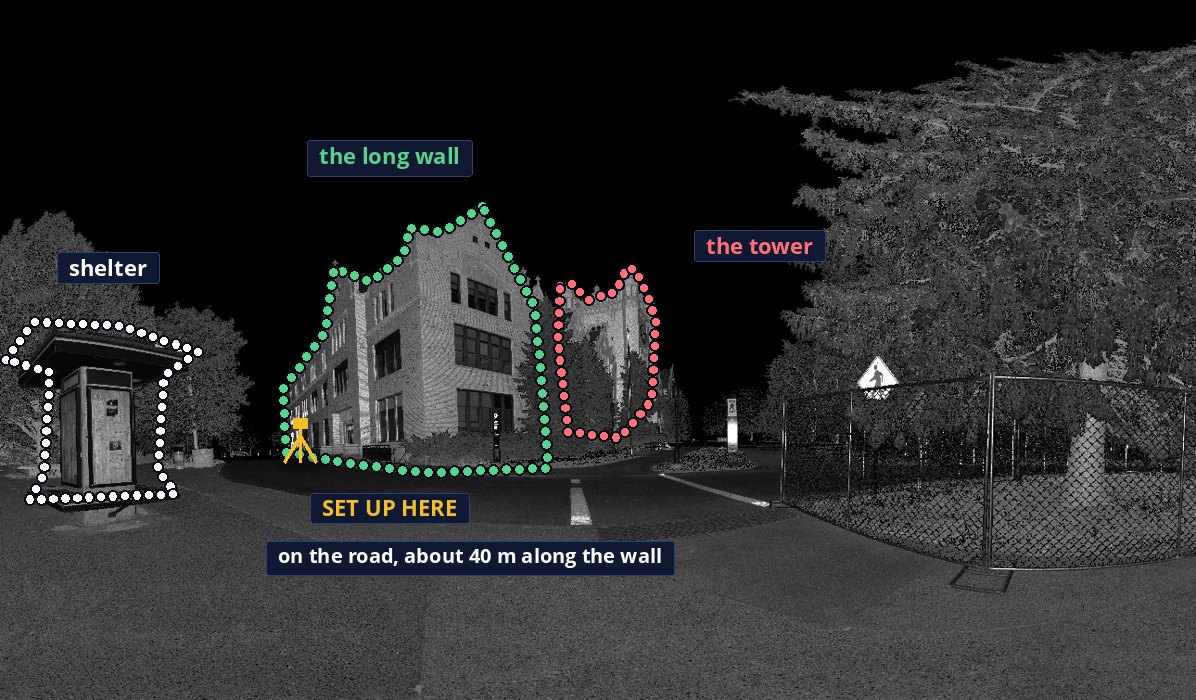
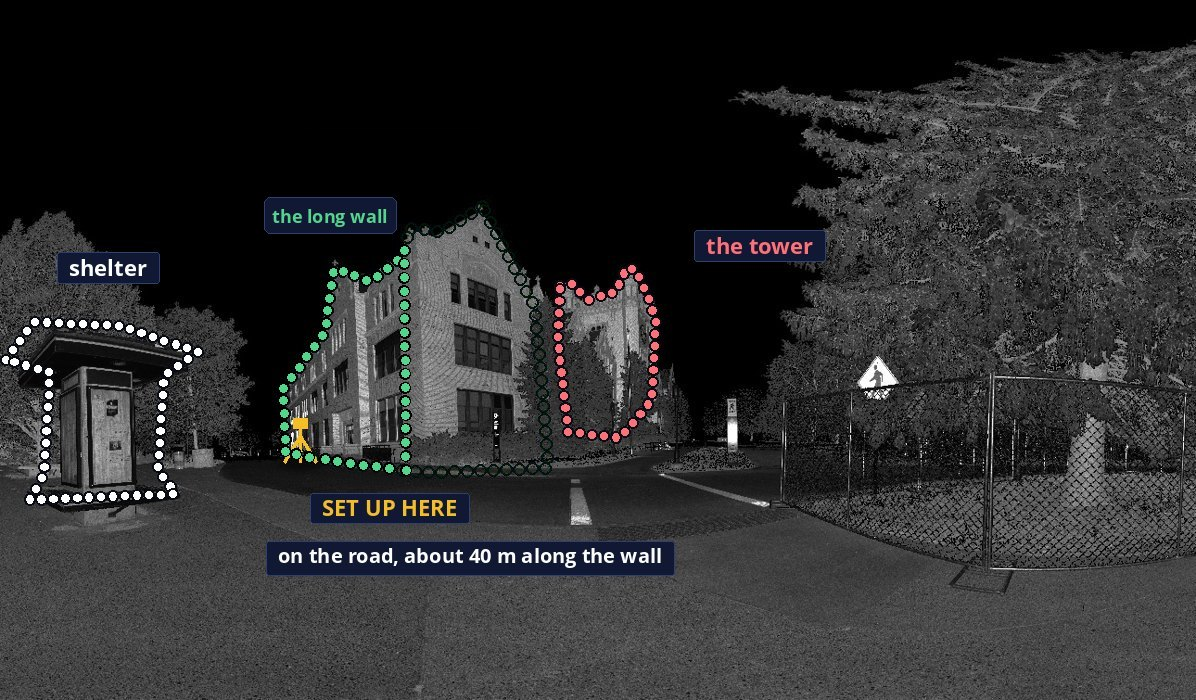
Stop the long-wall outline at the corner, where the gable faces the other way.
The dotted line was wrapping that end wall. The facade picture is the 44.4 m plane again.

Changed region(s): [[0.2166, 0.18, 0.4331, 0.66], [0.3403, 0.39, 0.464, 0.69], [0.2166, 0.63, 0.2784, 0.66]]

diff --git a/index.html b/index.html
@@ -10,12 +10,12 @@
 <meta property="og:description" content="You say what the scan has to answer. Wall plumb, standing water, the site in one map, and the height of the building.">
 <meta property="og:type" content="website">
 <meta property="og:url" content="https://ai-scan.northidaholabs.com/">
-<meta property="og:image" content="https://ai-scan.northidaholabs.com/img/wall-facade.png">
-<meta property="og:image:alt" content="Heat map of the 61.6 m facade. The long wall is colored against its plane. The gabled bay is grey, about 0.9 m proud of the plane.">
+<meta property="og:image" content="https://ai-scan.northidaholabs.com/img/wall-w2.png">
+<meta property="og:image:alt" content="Heat map of the 44.4 m facade. Red stands proud of the plane. Blue sits back.">
 <meta name="twitter:card" content="summary_large_image">
 <meta name="twitter:title" content="The scan answers | North Idaho Labs">
 <meta name="twitter:description" content="You say what the scan has to answer. Wall plumb, standing water, the site in one map, and the height of the building.">
-<meta name="twitter:image" content="https://ai-scan.northidaholabs.com/img/wall-facade.png">
+<meta name="twitter:image" content="https://ai-scan.northidaholabs.com/img/wall-w2.png">
 <link rel="preconnect" href="https://fonts.googleapis.com">
 <link rel="preconnect" href="https://fonts.gstatic.com" crossorigin>
 <link href="https://fonts.googleapis.com/css2?family=Instrument+Serif:ital@0;1&family=Manrope:wght@400;500;600&family=IBM+Plex+Mono:wght@400;500&display=swap" rel="stylesheet">
@@ -42,12 +42,12 @@
 <section class="lead" id="work">
   <article>
     <figure>
-      <img src="img/wall-facade.png" alt="Heat map of the 61.6 m facade. The long wall is colored against its plane. The gabled bay is grey, about 0.9 m proud of the plane.">
-      <figcaption>The 61.6 m face. The gabled bay is grey.</figcaption>
+      <img src="img/wall-w2.png" alt="Heat map of the 44.4 m facade. Red stands proud of the plane. Blue sits back.">
+      <figcaption>The long wall. Red stands proud. Blue sits back.</figcaption>
     </figure>
     <h2>Wall plumb and flatness</h2>
     <blockquote class="prompt">Is the long facade plumb, within a quarter inch in ten feet?</blockquote>
-    <p class="metric">7.1 mm over 13.8 m</p>
+    <p class="metric">4.1 mm over 14.6 m</p>
     <a href="visit.html">Read the visit</a>
   </article>
   <article>

diff --git a/walls.html b/walls.html
@@ -21,19 +21,19 @@
 <main>
 <h1>Wall plumb and flatness</h1>
 <blockquote class="prompt">Is the long facade plumb, within a quarter inch in ten feet?</blockquote>
-<p class="lede">The administration building at the University of Idaho. The outlined face runs 61.6 m. The gabled bay stands about 0.9 m proud of its plane, so the elevation draws that bay grey.</p>
+<p class="lede">The administration building at the University of Idaho. Red stands proud of the wall. Blue sits back. Grey is the windows and the courses that sit off it.</p>
 
 <figure>
-  <img src="img/wall-facade.png" alt="Heat map of the 61.6 m facade. The long wall is colored against its plane. The gabled bay is grey, about 0.9 m proud of the plane.">
-  <figcaption>The 61.6 m face. The gabled bay is grey, about 0.9 m proud of the plane.</figcaption>
+  <img src="img/wall-w2.png" alt="Heat map of the 44.4 m facade. Red stands proud of the plane. Blue sits back.">
+  <figcaption>The long wall, 44.4 m.</figcaption>
 </figure>
 <div class="facts">
-  <div><b>7.1 mm</b><span>out of plumb over 13.8 m</span></div>
-  <div><b>9.4 mm</b><span>flatness RMS against its plane</span></div>
-  <div><b>0.9 m</b><span>the gabled bay stands proud of the plane</span></div>
-  <div><b>86%</b><span>of the face covered by the scan</span></div>
+  <div><b>4.1 mm</b><span>out of plumb over 14.6 m</span></div>
+  <div><b>7.6 mm</b><span>flatness RMS against its plane</span></div>
+  <div><b>55%</b><span>of 3 m straight-line windows within 6 mm</span></div>
+  <div><b>85%</b><span>of the face covered by the scan</span></div>
 </div>
-<p>The longest planes the detector kept. w2 is the 44.4 m stretch of the face above. The bay is the gap between that stretch and w8.</p>
+<p>The longest walls on the same building:</p>
 <div class="scroll">
 <table>
 <tr><th>Wall</th><th>Length m</th><th>Top above ground m</th><th>Lean over height mm</th><th>Flatness RMS mm</th><th>95% within mm</th><th>3 m windows within 6 mm</th><th>Openings and reliefs</th></tr>

diff --git a/visit.html b/visit.html
@@ -36,15 +36,15 @@
 <p class="lede">Nothing stands in front of the wall.</p>
 <figure>
   <img src="img/station-4.jpg" alt="Station 4's view of the long wall, marked seen. Nothing stands in front of it.">
-  <figcaption>From the road. The gabled bay is at the right.</figcaption>
+  <figcaption>From the road. The outline stops where the wall turns.</figcaption>
 </figure>
 
 <h2>The long facade</h2>
 <blockquote class="prompt">Is the long facade plumb, within a quarter inch in ten feet?</blockquote>
-<p>7.1 mm out of plumb (9/32 in) over 13.8 m. The top leans toward the side it was scanned from. The tolerance gives no allowance for 13.8 m of height. Flat to 9.4 mm RMS. The gabled bay stands about 0.9 m proud of that plane. Stations 1 through 6 saw it. The face runs 61.6 m.</p>
+<p>4.1 mm out of plumb (3/16 in) over 14.6 m. The top leans toward the side it was scanned from. The tolerance gives no allowance for 14.6 m of height. Flat to 7.6 mm RMS. Stations 3, 4, 5, and 6 saw it. The plane runs 44.4 m.</p>
 <figure>
-  <img src="img/wall-facade.png" alt="Heat map of the 61.6 m facade. The long wall is colored against its plane. The gabled bay is grey, about 0.9 m proud of the plane.">
-  <figcaption>The 61.6 m face. The gabled bay is grey, about 0.9 m proud of the plane.</figcaption>
+  <img src="img/wall-w2.png" alt="Heat map of the 44.4 m plane. Red stands proud of the plane. Blue sits back.">
+  <figcaption>The 44.4 m plane. Red stands proud. Blue sits back.</figcaption>
 </figure>
 <p class="ask"><a href="walls.html">Open the walls</a></p>
 

diff --git a/LEARNINGS.md b/LEARNINGS.md
@@ -2,19 +2,21 @@
 
 What the next edit has to keep.
 
-## One face, one picture
+## The outline stops at the corner
 
-The dotted outline on station 4 is the long wall and the gabled bay at the right. That is one line, 61.6 m, from (43.77, 25.08) to (101.44, 3.55). The visit states that face: 7.1 mm out of plumb over 13.8 m, flat to 9.4 mm RMS. The gabled bay stands about 0.9 m proud of the plane, toward the side the stations stood on, and the elevation draws it grey.
+The long wall is the face along the road. The gable at the right of station 4, and the gable facing station 3, is the end of the building. That end faces orthogonal to the long wall. The dotted outline stops at the corner. It does not wrap the end.
 
-The 44.4 m plane is the long stretch of that line. Its own result stays 4.1 mm over 14.6 m, flat to 7.6 mm RMS, and it stays on its own picture. A picture of that plane does not include the bay. Pasting the short end onto it does not make the outline.
+The visit states the long wall: 4.1 mm out of plumb over 14.6 m, flat to 7.6 mm RMS. The plane runs 44.4 m. Stations 3, 4, 5, and 6 saw it.
 
-## Why the bay was missing
+## A line through the end is a different face
 
-The detector keeps a run within 4 cm of a line and splits a gap wider than 0.6 m. The measurement keeps points within 30 cm of the line. The bay is about 0.9 m proud, so both leave it out. A band of 1.2 m takes the bay. Points more than 50 mm off the fitted plane draw grey, and the plumb number is the plane of what remains. The first pass over the whole line, still at 30 cm, saw 69% and withheld the number.
+w2 and w8 lie on one straight line in plan, with 9.4 m between them, 61.6 m end to end. The gable sits on that gap. Extending the measurement through it, and widening the band to 1.2 m, brought the end wall into the elevation and called it a bay 0.9 m proud of the plane. That end faces the other way. The 44.4 m plane stays the facade. Its picture stays its own.
+
+The detector keeps a run within 4 cm of a line and splits a gap wider than 0.6 m. The measurement keeps points within 30 cm of the line. A face across the corner can still fall inside a wider band.
 
 ## Check the line in the photo
 
-Project the wall into the station panorama before saying the outline and the elevation are the same face. Preview position is fitted from the scan's own points. The azimuth scale can run against the column index, and the raw header stores the negated start angle. On station 4 the long wall is the left of the photo and the bay is the gable at the right.
+Project the wall into the station panorama before saying the outline and the elevation are the same face. Preview position is fitted from the scan's own points. The azimuth scale can run against the column index, and the raw header stores the negated start angle. On station 4 the long wall is the left of the photo and the corner is where the gable begins. On station 3 the long wall is the receding face and the gable is the end toward the camera.
 
 Station 3 is the directing view. The tripod sits on the road in that view. The shelter is the landmark. About 40 m is the plan-grid separation of stations 3 and 4. Station 4 is the arrival, with the wall clear.
 
